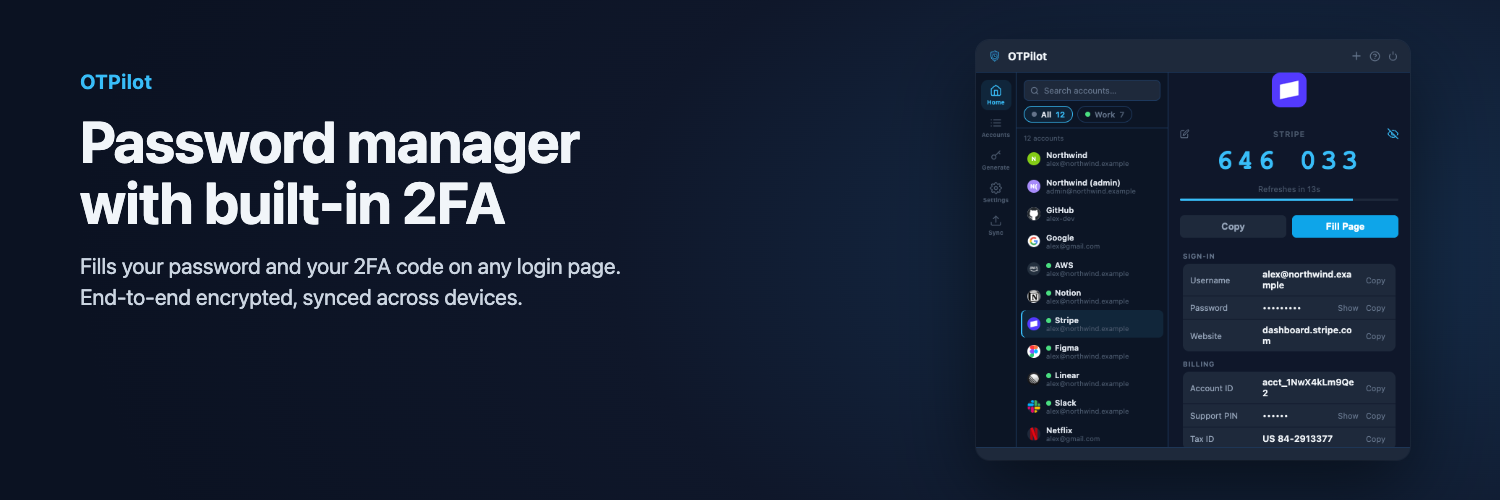
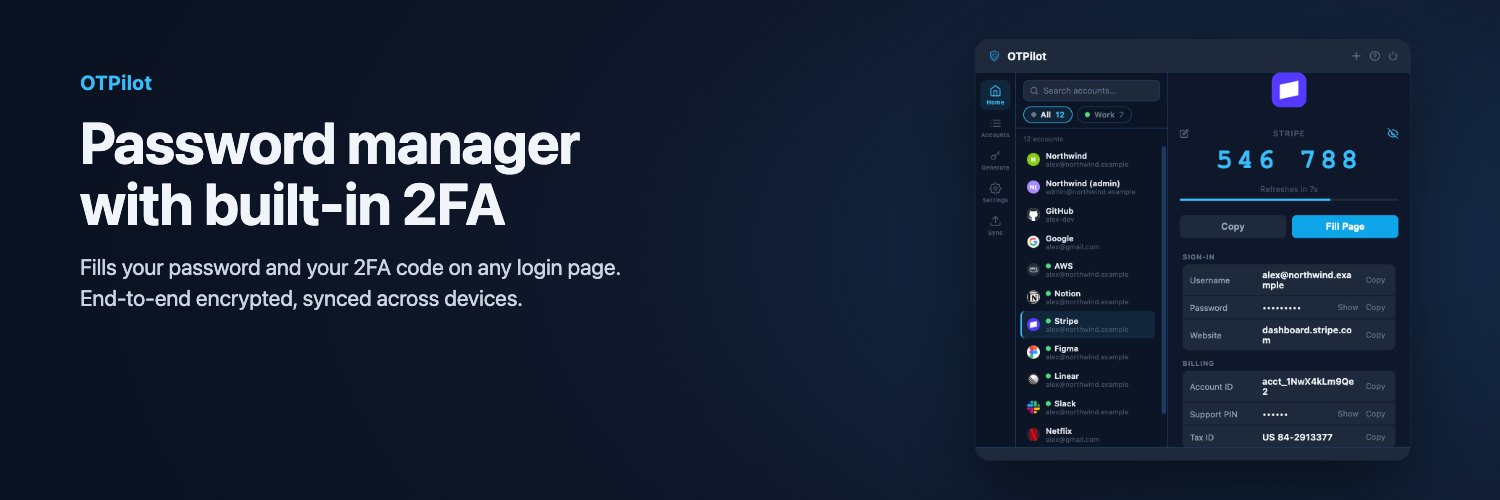
chore(extension): store marquee promo tile (1400x560); no scrollbars in popup captures

diff --git a/extension/store/screenshots.spec.js b/extension/store/screenshots.spec.js
@@ -2,7 +2,8 @@
 // with demo data. Run from extension/:
 //   npx playwright test -c store/playwright.config.js
 // Writes store/screenshots/<n>-<name>.png, plus the store's small promo tile
-// (store/promo-tile.png, 440×280) and the X header (store/x-header.png, 1500×500). The demo site is a fictional
+// (store/promo-tile.png, 440×280), the marquee promo tile (store/marquee.png,
+// 1400×560) and the X header (store/x-header.png, 1500×500). The demo site is a fictional
 // "Northwind" (store/pages), served as northwind.example.
 import { test as base, chromium, expect } from '@playwright/test';
 import path from 'path';
@@ -100,6 +101,7 @@ async function seed(context, extensionId) {
   });
   await page.reload();
   await waitForVault(page);
+  await page.addStyleTag({ content: '::-webkit-scrollbar { display: none; }' }); // no scrollbars in the images
   return page;
 }
 
@@ -202,7 +204,7 @@ test('store screenshots', async ({ context, extensionId }) => {
     await popup.screenshot());
 });
 
-test('promo tile and X header', async ({ context, extensionId }) => {
+test('promo tiles and X header', async ({ context, extensionId }) => {
   const popup = await seed(context, extensionId);
   await popup.locator('#home-list .lc-row', { hasText: 'Stripe' }).click();
   await popup.locator('#home-detail').evaluate(el => { el.scrollTop = 0; });
@@ -215,6 +217,18 @@ test('promo tile and X header', async ({ context, extensionId }) => {
     .brand { font-size: 15px; margin-bottom: 14px; }
     h1 { font-size: 38px; }`,
     `<div class="brand">OTPilot</div><h1>${HEADLINE}</h1>`);
+
+  // Marquee promo tile (1400×560): headline and sentence, the popup beside them.
+  await banner(context, 'marquee.png', 1400, 560, `
+    .copy { position: absolute; left: 90px; top: 50%; transform: translateY(-50%); width: 600px; }
+    .brand { font-size: 20px; margin-bottom: 20px; }
+    h1 { font-size: 60px; margin-bottom: 20px; }
+    p { font-size: 22px; }
+    img { position: absolute; right: 80px; top: 50%; transform: translateY(-50%); height: 470px; border-radius: 14px;
+      box-shadow: 0 30px 80px rgba(0,0,0,.55), 0 0 0 1px rgba(255,255,255,.06); }`,
+    `<div class="copy"><div class="brand">OTPilot</div><h1>${HEADLINE}</h1>
+      <p>Fills your password and your 2FA code on any login page. End&#8209;to&#8209;end encrypted, synced across devices.</p></div>
+     <img src="${shot}">`);
 
   // X header (1500×500). The avatar covers the bottom-left corner: the copy
   // sits higher up, the popup on the right.
